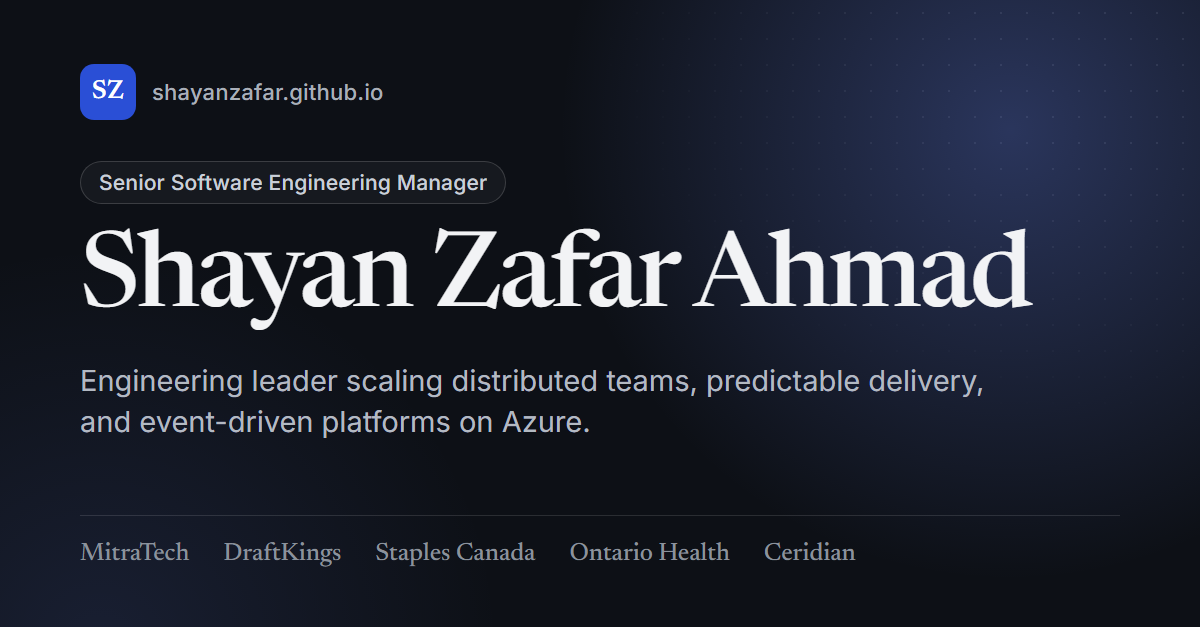
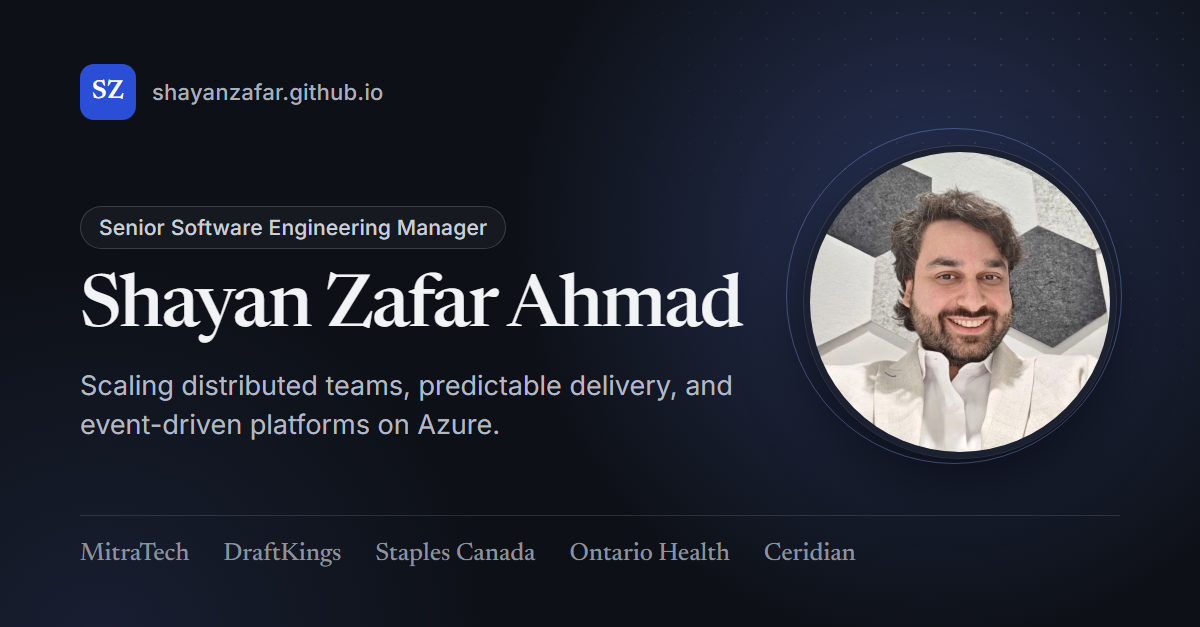
Add portrait photo to hero and link preview
- Circular portrait beside the name on desktop, small avatar above it on phones
- Stats move to a full-width row under the hero
- LinkedIn/Open Graph preview card now includes the photo
- Photo added to structured data; hidden in the print/PDF resume

Changed region(s): [[0.0617, 0.0, 1.0, 0.7273]]

diff --git a/index.html b/index.html
@@ -42,6 +42,7 @@
     "@type": "Person",
     "name": "Shayan Zafar Ahmad",
     "url": "https://shayanzafar.github.io/",
+    "image": "https://shayanzafar.github.io/assets/img/shayan-zafar-ahmad.jpg",
     "jobTitle": "Senior Software Engineering Manager",
     "worksFor": { "@type": "Organization", "name": "MitraTech" },
     "email": "mailto:shayan.zafar.ahmad@gmail.com",
@@ -136,25 +137,29 @@
             </p>
           </div>
 
-          <ul class="stats" aria-label="At a glance">
-            <li class="stat">
-              <span class="stat__value"><span data-years-since="2012-04">14</span><small>yrs</small></span>
-              <span class="stat__label">building software</span>
-            </li>
-            <li class="stat">
-              <span class="stat__value"><span data-years-since="2019-06">7</span><small>yrs</small></span>
-              <span class="stat__label">leading engineering teams</span>
-            </li>
-            <li class="stat">
-              <span class="stat__value">12</span>
-              <span class="stat__label">engineers led across India, the US &amp; Mexico</span>
-            </li>
-            <li class="stat">
-              <span class="stat__value">4</span>
-              <span class="stat__label">industries: healthcare, sports betting, retail &amp; HCM</span>
-            </li>
-          </ul>
+          <div class="hero__portrait">
+            <img src="assets/img/shayan-zafar-ahmad.jpg" alt="Portrait of Shayan Zafar Ahmad" width="600" height="600" fetchpriority="high" decoding="async">
+          </div>
         </div>
+
+        <ul class="stats" aria-label="At a glance">
+          <li class="stat">
+            <span class="stat__value"><span data-years-since="2012-04">14</span><small>yrs</small></span>
+            <span class="stat__label">building software</span>
+          </li>
+          <li class="stat">
+            <span class="stat__value"><span data-years-since="2019-06">7</span><small>yrs</small></span>
+            <span class="stat__label">leading engineering teams</span>
+          </li>
+          <li class="stat">
+            <span class="stat__value">12</span>
+            <span class="stat__label">engineers led across India, the US &amp; Mexico</span>
+          </li>
+          <li class="stat">
+            <span class="stat__value">4</span>
+            <span class="stat__label">industries: healthcare, sports betting, retail &amp; HCM</span>
+          </li>
+        </ul>
 
         <div class="worked-at">
           <p class="worked-at__label">Experience at</p>

diff --git a/assets/css/styles.css b/assets/css/styles.css
@@ -413,7 +413,7 @@ svg {
 
 .hero__grid {
   display: grid;
-  gap: 2.5rem;
+  gap: 1.5rem;
 }
 
 .hero__name {
@@ -449,12 +449,30 @@ svg {
   font-size: 0.9375rem;
 }
 
+/* Small avatar above the name on phones; large portrait beside it on desktop. */
+.hero__portrait {
+  order: -1;
+  position: relative;
+  width: 6.5rem;
+  aspect-ratio: 1;
+}
+
+.hero__portrait img {
+  display: block;
+  width: 100%;
+  height: 100%;
+  object-fit: cover;
+  border: 3px solid var(--bg-elevated);
+  border-radius: 50%;
+  background: var(--bg-subtle);
+  box-shadow: 0 0 0 1px var(--border), var(--shadow-md);
+}
+
 .stats {
   display: grid;
   grid-template-columns: repeat(2, minmax(0, 1fr));
   gap: 1px;
-  align-self: center;
-  margin: 0;
+  margin: clamp(2.5rem, 2rem + 2vw, 3.5rem) 0 0;
   padding: 0;
   overflow: hidden;
   border: 1px solid var(--border);
@@ -533,6 +551,10 @@ svg {
 }
 
 @media (min-width: 40rem) {
+  .hero__portrait {
+    width: 7.5rem;
+  }
+
   .stats {
     grid-template-columns: repeat(4, minmax(0, 1fr));
   }
@@ -545,12 +567,29 @@ svg {
     gap: 4rem;
   }
 
-  .stats {
-    grid-template-columns: repeat(2, minmax(0, 1fr));
+  .hero__portrait {
+    order: 0;
+    justify-self: center;
+    width: min(100%, 20rem);
+  }
+
+  .hero__portrait img {
+    border-width: 6px;
+  }
+
+  /* Soft accent halo with a thin orbit ring behind the portrait */
+  .hero__portrait::before {
+    content: "";
+    position: absolute;
+    inset: -1.25rem;
+    z-index: -1;
+    border: 1px solid rgb(var(--accent-rgb) / 0.22);
+    border-radius: 50%;
+    background: radial-gradient(closest-side, rgb(var(--accent-rgb) / 0.14), transparent);
   }
 
   .stat {
-    padding: 1.75rem 1.5rem;
+    padding: 1.5rem;
   }
 }
 
@@ -1199,6 +1238,7 @@ svg {
   .hero__lede,
   .hero__actions,
   .hero__meta,
+  .hero__portrait,
   .stats,
   .worked-at,
   #about,

diff --git a/README.md b/README.md
@@ -13,6 +13,7 @@ No build step: what's in this repo is exactly what gets served.
 | `index.html` | All page content: about, expertise, experience, skills, education, contact |
 | `assets/css/styles.css` | Styles, including automatic dark mode and the print/PDF résumé layout |
 | `assets/js/main.js` | Small enhancements: auto-updating "years of experience", "show more" toggles, active nav link |
+| `assets/img/shayan-zafar-ahmad.jpg` | Portrait used in the hero (600×600, face-centred crop, metadata stripped) |
 | `assets/img/og-image.png` | Link-preview image shown when the URL is shared on LinkedIn, Slack, etc. (1200×627) |
 | `assets/Shayan_Zafar_Ahmad_Resume.pdf` | Downloadable résumé, generated from the page's print layout |
 | `favicon.svg`, `apple-touch-icon.png` | Browser tab and home-screen icons |
